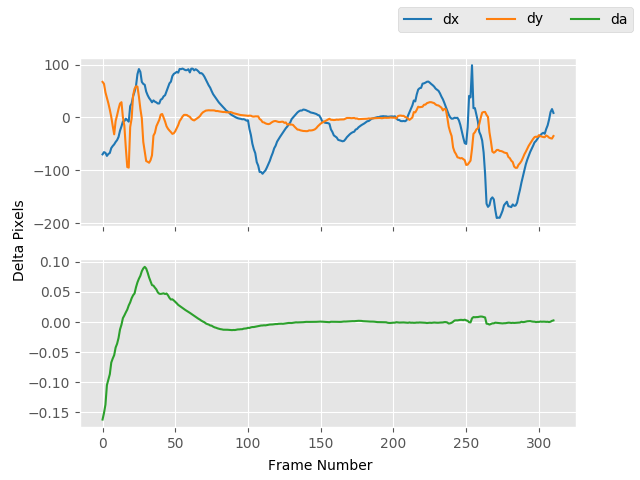
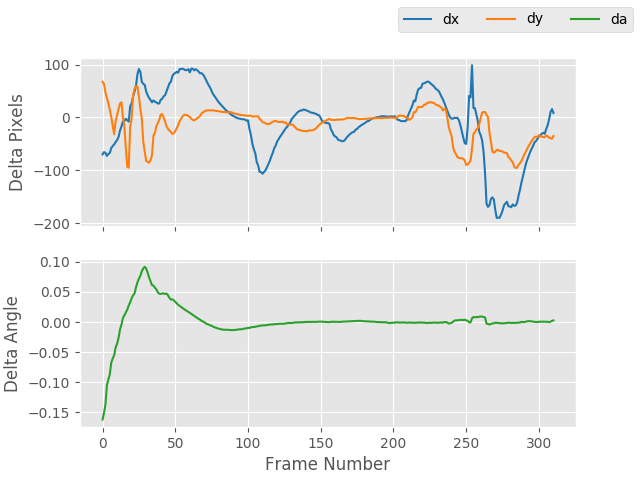
change transforms plot axes labs

diff --git a/vidstab/VidStab.py b/vidstab/VidStab.py
@@ -304,8 +304,10 @@ class VidStab:
 
             ax1.plot(self.transforms[:, 0], label='dx', color='C0')
             ax1.plot(self.transforms[:, 1], label='dy', color='C1')
+            ax1.set_ylabel('Delta Pixels')
 
             ax2.plot(self.transforms[:, 2], label='da', color='C2')
+            ax2.set_ylabel('Delta Angle')
 
             handles1, labels1 = ax1.get_legend_handles_labels()
             handles2, labels2 = ax2.get_legend_handles_labels()
@@ -314,8 +316,7 @@ class VidStab:
                        loc='upper right',
                        ncol=3)
 
-            fig.text(0.5, 0.02, 'Frame Number', ha='center')
-            fig.text(0.02, 0.5, 'Delta Pixels', va='center', rotation='vertical')
+            plt.xlabel('Frame Number')
 
             fig.canvas.set_window_title('Transforms')
 
